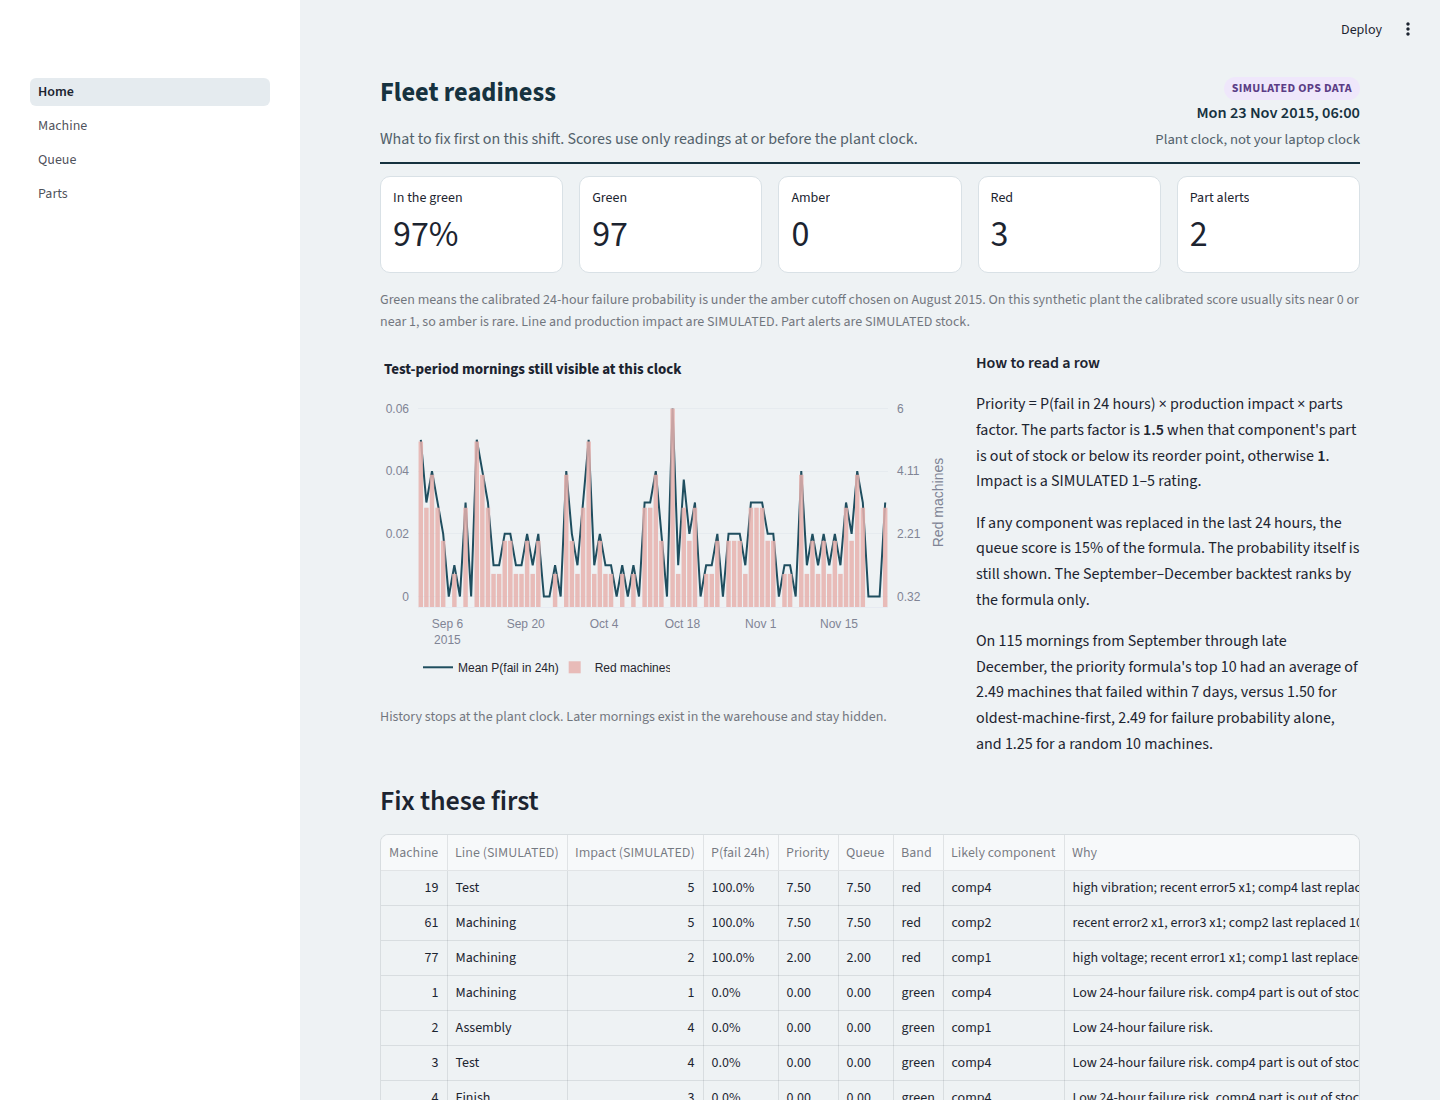
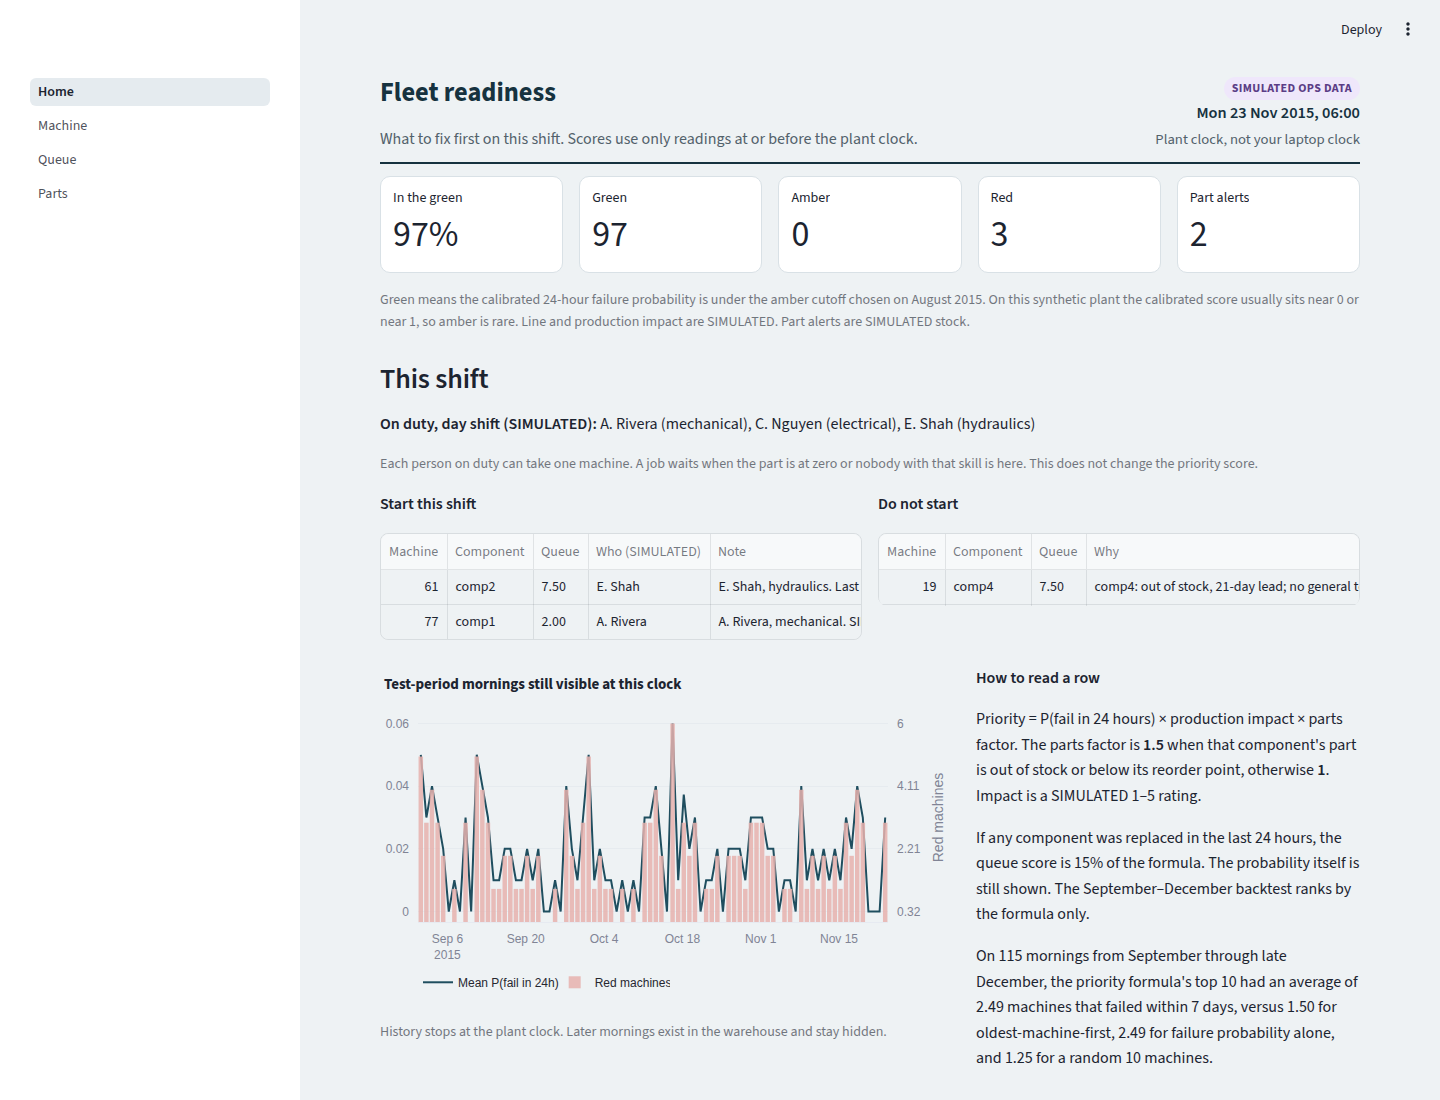
Document the shift plan and refresh the dashboard screenshots.
The demo script now opens a job the day crew can start, and the fleet picture shows the do-not-start list.

Changed region(s): [[0.25, 0.3091, 0.9375, 1.0], [0.4688, 0.9891, 0.5625, 1.0], [0.3125, 0.9891, 0.3438, 1.0]]

diff --git a/docs/DEMO_SCRIPT.md b/docs/DEMO_SCRIPT.md
@@ -10,17 +10,15 @@ A maintenance lead at a 20 to 500 person plant, including a defense supplier, st
 
 ## 0:20 Fleet readiness
 
-Open the Fleet page. Read the green / amber / red counts and the readiness percentage. Point at the morning trend and say it only shows days at or before the plant clock. The model never trained on September through December. Those months are the test.
+Open the Fleet page. Read the green / amber / red counts. Then read "This shift." Machine 19 is the highest priority and it is on the do-not-start list: comp4 is out of stock, and the only general technician is on swing, not on this day shift. Machines 61 and 77 are the ones this crew can start. Say that the roster and the stock are simulated, and that this plan does not change the score the backtest uses.
 
-## 0:50 Why the top machine is first
+## 0:50 Why machine 19 ranks first anyway
 
-Open the first row. On the machine page, read the reason in plain language: a hot sensor, how long since that component was replaced, and whether the simulated part is short. Then show the contribution bars. Those are the model's own feature contributions, not a second opinion from a language model.
+Open machine 19. Read the reason: vibration, a recent error, component age, and the missing part. Show the contribution bars. Those come from the tree model. Say the formula once: probability times production impact times 1.5 when the part is out of stock or below its reorder point. Then say the calibrated score on this file sits near 0% or 100%, so you still read the sensor reason before you dispatch.
 
-Say the formula once: probability times production impact times a parts factor of 1.5 when the part is out of stock or below its reorder point.
+## 1:30 Create the work order on a job you can start
 
-## 1:30 Create the work order, then close it
-
-Create a work order. A simulated technician is assigned by skill and by who already has the fewest open jobs. Go back to the queue, mark it repaired, and refresh. The machine drops. Two things happened: the replacement age went to zero, and a shop rule multiplies the queue score by 0.15 for 24 hours so a hot sensor trace does not send a second technician to a machine you just finished. The probability is still on the page. The backtest of the formula does not use that 24-hour rule.
+Create a work order on machine 61, not 19. E. Shah is on the day shift and has the hydraulics skill. Mark it repaired. The machine drops. The replacement is logged at the plant clock, and a shop rule multiplies the queue score by 0.15 for 24 hours. The probability is still on the page. The backtest of the formula does not use that rule, and it does not use the shift plan.
 
 ## 2:00 Parts
 

diff --git a/docs/INTERVIEW_GUIDE.md b/docs/INTERVIEW_GUIDE.md
@@ -113,6 +113,12 @@ This is not a fourth machine-learning model. It is a business weight. On the bac
 
 The queue then applies a shop rule the backtest does not use. If any component was replaced in the last 24 hours, the queue score is 15% of the formula (`× 0.15`). Marking a machine repaired writes that replacement at the plant clock, rescores, and the machine drops. The probability stays on the page. You are not hiding the model. You are not sending a second technician to a machine someone just finished. Say that distinction. If you blur it, a sharp interviewer will think you cooked the backtest.
 
+## This shift is a constraint, not a new model
+
+On the demo morning the ranked list puts machine 19 first, at 7.50. The shift plan says do not start it. It is 06:00, so the day shift is on duty. Comp4 takes a general technician, and the only general technician works swing. Comp4 is also at zero on the shelf, with a 21-day lead time. The jobs that can start are machine 61 (E. Shah, hydraulics, one part left) and machine 77 (A. Rivera, mechanical).
+
+Each person on duty can take one machine. A second job for the same skill waits. The code is `models/shift_plan.py`. The September–December backtest still ranks by the formula alone. If they ask why the top machine is not the one you work, that is the answer: priority says what hurts most, the shift plan says what this crew can touch before the part arrives.
+
 ## Why the 0.99 is not the boast
 
 The Azure file was built so that failures leave a loud fingerprint in the sensors and the errors. A tree model can almost draw a box around them. The logistic regression is already good, which tells you the signal is simple. The component guess is essentially perfect for the same reason: the simulator's rule for "which component" is recoverable from the same features.
@@ -180,6 +186,7 @@ Use one of these if they ask for a scar.
 | `models/rul.py` | Engines, the cap at 125, why cycle number is absent. |
 | `models/ai4i.py` | F1, the baseline, why RNF is not a target. |
 | `models/priority.py` | The formula and the 24-hour shop rule. |
+| `models/shift_plan.py` | Who is on duty, and which red machines cannot be started. |
 | `models/score.py` | How a morning list is scored and how the backtest is counted. |
 | `app/Home.py` | The screen a lead sees first. |
 | `results/results.md` | The numbers. Do not recite from memory if this file is in front of you. |

diff --git a/README.md b/README.md
@@ -12,7 +12,9 @@ A maintenance manager or plant manager at a shop of about 20 to 500 people, incl
 
 ## Fleet, on the demo morning
 
-Monday 23 November 2015, 06:00. Three machines are red. Ninety-seven are green. The top row is machine 19: high vibration, a recent error5, comp4 last replaced 74 days ago, and the simulated comp4 part is out of stock. Priority is 7.50, which is `1.00 × impact 5 × parts factor 1.5`.
+Monday 23 November 2015, 06:00. Three machines are red. Ninety-seven are green. The top of the ranked list is machine 19: high vibration, a recent error5, comp4 last replaced 74 days ago, and the simulated comp4 part is out of stock. Priority is 7.50, which is `1.00 × impact 5 × parts factor 1.5`.
+
+The shift plan then says not to start that job. It is 06:00, the day shift. The only general technician is on swing, and comp4 is at zero on the shelf with a 21-day lead time. The jobs that can start are machine 61 with E. Shah (hydraulics, one part left) and machine 77 with A. Rivera (mechanical). The roster and the stock are simulated. The priority score itself is unchanged.
 
 ![Fleet readiness on the demo morning](docs/screenshots/01_fleet.png)
 
